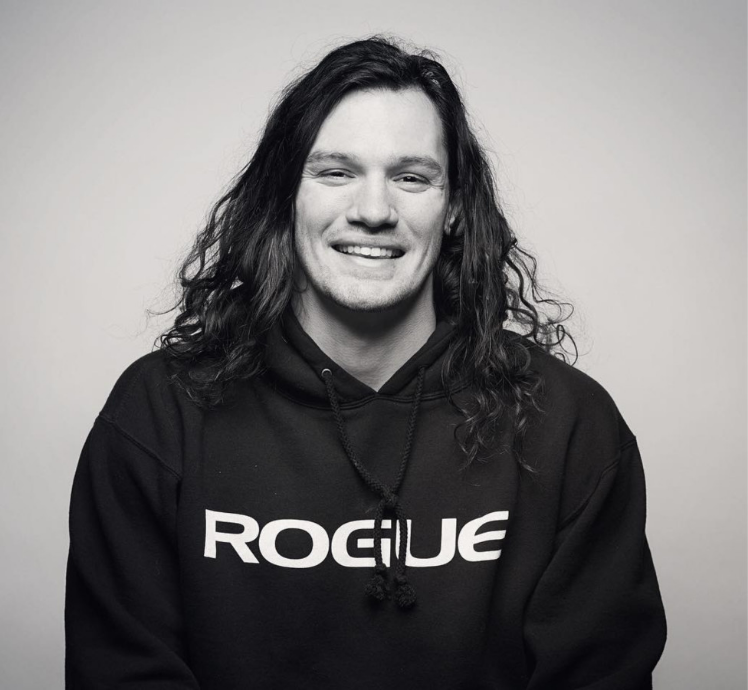
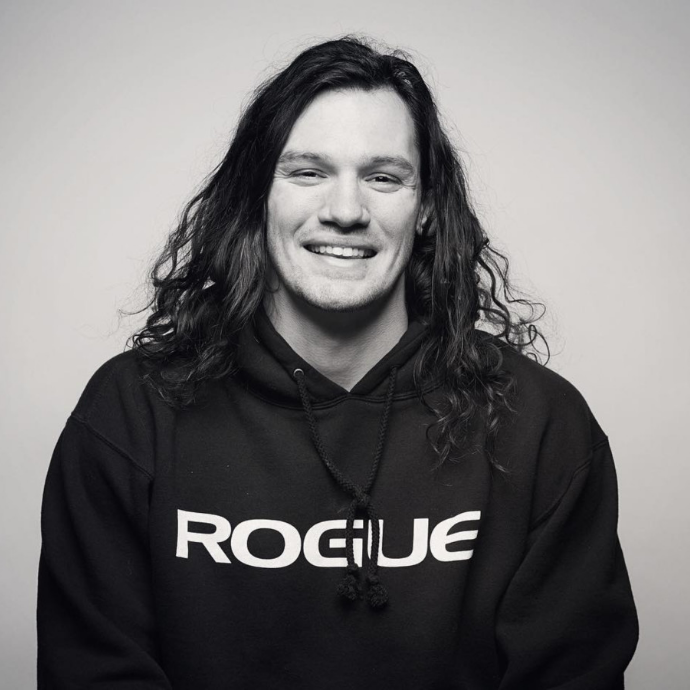
styled about section

diff --git a/index.html b/index.html
@@ -89,102 +89,79 @@
               <p data-feature="search" class="featureItem">
                 SEARCH BY NAME, LOCATION, OR BOTH
               </p>
-              <!-- <p class="featureItem">
-                    Instant access to your entire client base by name, location or
-                    both.
-                  </p> -->
             </div>
             <div class="featureDetails">
               <p data-feature="transaction" class="featureItem active">
                 VIEW TRANSACTION HISTORIES
               </p>
-              <!-- <p class="featureItem">
-                Complete client transaction histories are now two clicks away.
-              </p> -->
             </div>
             <div class="featureDetails">
               <p data-feature="installment" class="featureItem">
                 QUICKLY SEE INSTALLMENTS
               </p>
-              <!-- <p class="featureItem">
-                Quickly see who is due for an installment or enter a
-                successfully paid installment.
-              </p> -->
             </div>
             <div class="featureDetails">
               <p data-feature="inventory" class="featureItem">
                 MANAGE YOUR INVENTORY
               </p>
-              <!-- <p>
-                  Now you can see your whole inventory in one place, and easily
-                  add or update your data.
-                </p> -->
             </div>
-            <!-- <div class="featureDetails">
-              <h2>Lead Support</h2>
-              <p>
-                Search and categorize clients based on their lead potential.
-              </p>
-            </div> -->
           </div>
         </div>
       </section>
-      <section class="lower-section">
-        <div class="about">
-          <div class="profiles">
-            <img
-              class="profile-photos"
-              alt="Search Image"
-              src="./images/joshProfile.jpg"
-            />
-            <h3>Josh Kersting</h3>
-            <p>Full Stack Developer</p>
-          </div>
-          <div class="profiles">
-            <img
-              class="profile-photos"
-              alt="Search Image"
-              src="./images/chaseProfile.png"
-            />
-            <h3>Chase Garsee</h3>
-            <p>Full Stack Developer</p>
-          </div>
-          <div class="profiles">
-            <img
-              class="profile-photos"
-              alt="Search Image"
-              src="./images/andrewProfile.JPG"
-            />
-            <h3>Andrew Safran</h3>
-            <p>Full Stack Developer</p>
-          </div>
-          <div class="profiles">
-            <img
-              class="profile-photos"
-              alt="Search Image"
-              src="./images/dustinProfile.png"
-            />
-            <h3>Dusin Bailey</h3>
-            <p>Full Stack Developer</p>
-          </div>
-          <div class="profiles">
-            <img
-              class="profile-photos"
-              alt="Search Image"
-              src="./images/jasonProfile.png"
-            />
-            <h3>Jason Tyzzer</h3>
-            <p>Android Developer</p>
-          </div>
-          <div class="profiles">
-            <img
-              class="profile-photos"
-              alt="Search Image"
-              src="./images/jasonProfile.png"
-            />
-            <h3>Lowell Richardson</h3>
-            <p>Team Lead</p>
-          </div>
+      <section class="lower-section about">
+        <div class="profiles">
+          <img
+            class="profile-photos"
+            alt="Search Image"
+            src="./images/joshProfile.jpg"
+          />
+          <h3>Josh Kersting</h3>
+          <p>Full Stack Developer</p>
+        </div>
+        <div class="profiles">
+          <img
+            class="profile-photos"
+            alt="Search Image"
+            src="./images/chaseProfile.png"
+          />
+          <h3>Chase Garsee</h3>
+          <p>Full Stack Developer</p>
+        </div>
+        <div class="profiles">
+          <img
+            class="profile-photos"
+            alt="Search Image"
+            src="./images/andrewProfile.JPG"
+          />
+          <h3>Andrew Safran</h3>
+          <p>Full Stack Developer</p>
+        </div>
+        <div class="profiles">
+          <img
+            class="profile-photos"
+            alt="Search Image"
+            src="./images/dustinProfile.png"
+          />
+          <h3>Dusin Bailey</h3>
+          <p>Full Stack Developer</p>
+        </div>
+        <div class="profiles">
+          <img
+            class="profile-photos"
+            alt="Search Image"
+            src="./images/jasonProfile.png"
+          />
+          <h3>Jason Tyzzer</h3>
+          <p>Android Developer</p>
+        </div>
+        <div class="profiles">
+          <img
+            class="profile-photos"
+            alt="Search Image"
+            src="./images/lowellProfile.png"
+          />
+          <h3>Lowell Richardson</h3>
+          <p>Team Lead</p>
         </div>
       </section>
     </main>

diff --git a/components/main/main.less b/components/main/main.less
@@ -79,7 +79,7 @@ header.index.header nav a {
   }
 
   .mid-section {
-    height: 800px;
+    min-height: 800px;
 
     display: flex;
     flex-direction: column;
@@ -147,22 +147,24 @@ header.index.header nav a {
   }
   .about {
     display: flex;
-    width: 80%;
+    flex-wrap: wrap;
+    width: 100%;
+    margin: 0 auto;
     padding: 60px 0px;
-    justify-content: space-between;
+    justify-content: space-evenly;
     font-family: "Mandali", sans-serif;
-
-    .profiles {
-      color: white;
-    }
 
     @media @mobile {
       flex-direction: column;
     }
+
     .profiles {
-      display: flex;
-      flex-direction: column;
-      align-items: center;
+      text-align: center;
+      color: white;
+
+      margin: 15px;
+      max-width: 300px;
+      width: 50%;
 
       @media @mobile {
         margin: 15px auto;
@@ -188,15 +190,19 @@ header.index.header nav a {
       // width: 100px;
       // height: 100px;
       // border-radius: 50%;
-      width: 60px;
+      max-width: 300px;
+      width: 100%;
 
-      height: 60px;
+      max-height: 300px;
+      height: auto;
 
-      border-radius: 8%;
+      border-radius: 4px;
 
       -webkit-filter: grayscale(100%);
 
       filter: grayscale(100%);
+
+      object-fit: cover;
 
       @media @mobile {
         width: 200px;

diff --git a/css/index.css b/css/index.css
@@ -136,7 +136,7 @@ header.index.header nav a {
   font-weight: 400;
 }
 .index .mid-section {
-  height: 800px;
+  min-height: 800px;
   display: flex;
   flex-direction: column;
   background-color: #19181b;
@@ -189,13 +189,12 @@ header.index.header nav a {
 }
 .index .about {
   display: flex;
-  width: 80%;
+  flex-wrap: wrap;
+  width: 100%;
+  margin: 0 auto;
   padding: 60px 0px;
-  justify-content: space-between;
+  justify-content: space-evenly;
   font-family: "Mandali", sans-serif;
-}
-.index .about .profiles {
-  color: white;
 }
 @media (max-width: 500px) {
   .index .about {
@@ -203,9 +202,11 @@ header.index.header nav a {
   }
 }
 .index .about .profiles {
-  display: flex;
-  flex-direction: column;
-  align-items: center;
+  text-align: center;
+  color: white;
+  margin: 15px;
+  max-width: 300px;
+  width: 50%;
 }
 @media (max-width: 500px) {
   .index .about .profiles {
@@ -228,11 +229,14 @@ header.index.header nav a {
   }
 }
 .index .about .profile-photos {
-  width: 60px;
-  height: 60px;
-  border-radius: 8%;
+  max-width: 300px;
+  width: 100%;
+  max-height: 300px;
+  height: auto;
+  border-radius: 4px;
   -webkit-filter: grayscale(100%);
   filter: grayscale(100%);
+  object-fit: cover;
 }
 @media (max-width: 500px) {
   .index .about .profile-photos {
